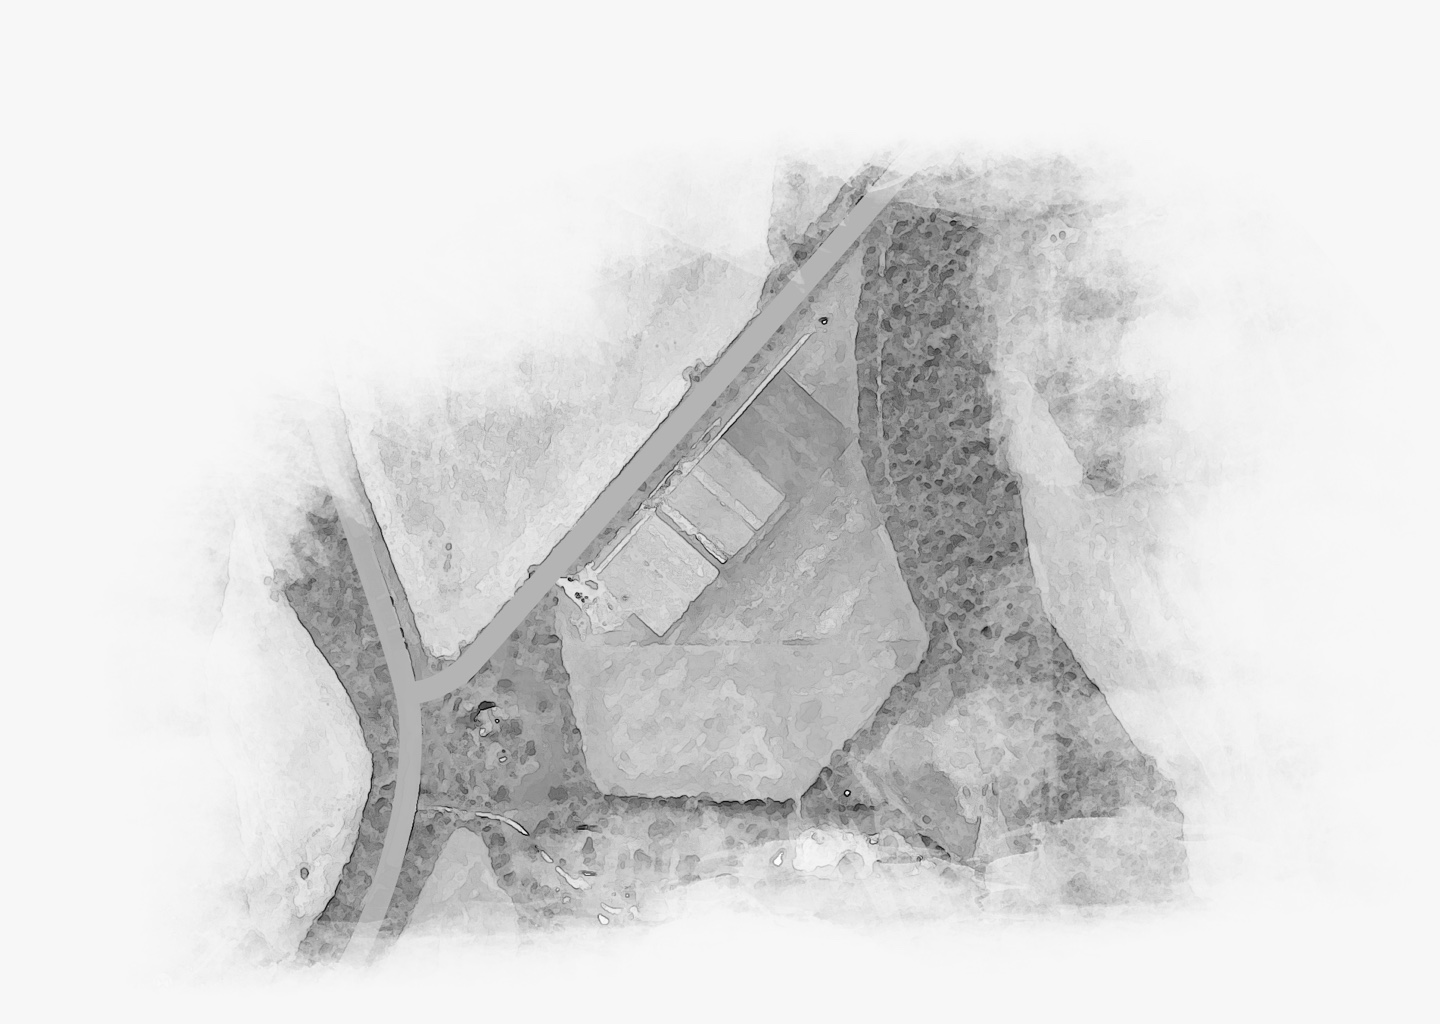
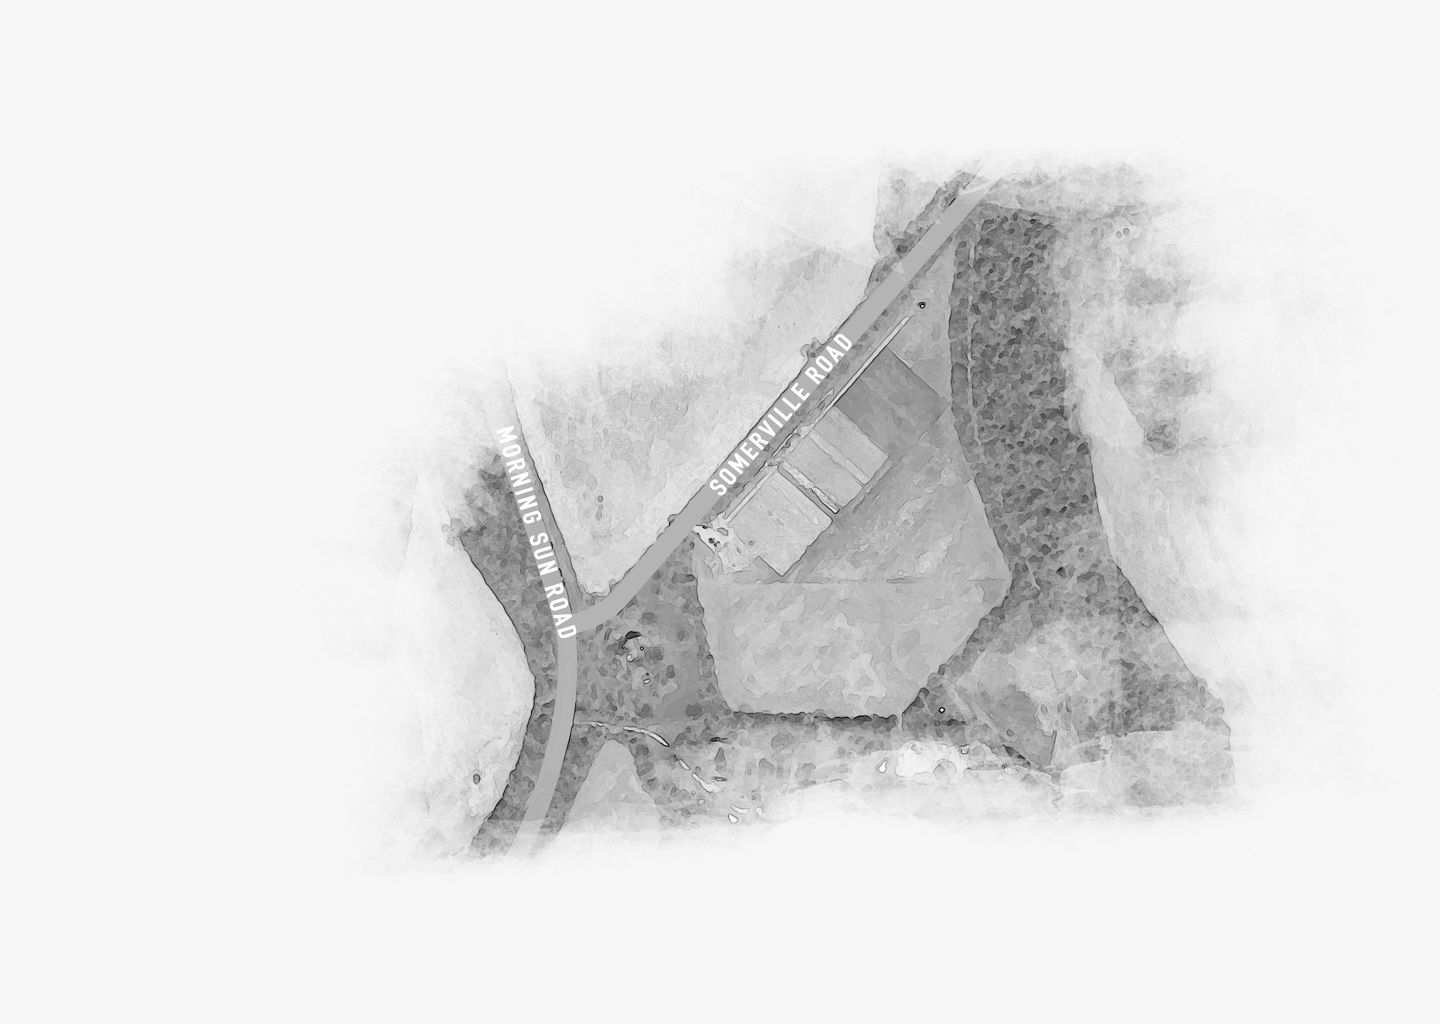
add contributors page and update farm map

Changed region(s): [[0.1562, 0.1562, 0.875, 0.9688], [0.4062, 0.3438, 0.4375, 0.375], [0.3438, 0.3438, 0.375, 0.375]]

diff --git a/src/Pages/Contributors.jsx b/src/Pages/Contributors.jsx
@@ -1,0 +1,139 @@
+import React from 'react';
+import injectSheet from 'react-jss';
+import EssayPage from '../Components/EssayPage';
+
+const ContributorsWithClasses = ({
+  classes
+}) => (
+    <EssayPage
+      articleTitle='Our Supporters'
+      className={classes.essayOverrides}
+    >
+        <p>This website is supported by a grant from Ohio Humanities.</p>
+        <p>The American Studies Program, the Institute for Food, the Department of Architecture and Interior Design, and the College of Creative Arts at Miami University provided additional funding.</p>
+        <p><i>Educating from the Ground Up</i> is part of a larger curriculum initiative in food systems and food studies at Miami University, which is supported by a capacity building grant [#2017-70001-25988] from the USDA National Institute of Food and Agriculture.</p>
+        <p className={classes.paragraphOverride}>Ohio Humanities is a state affiliate of the National Endowment for the Humanities. Any views, findings, conclusions or recommendations expressed in this publication do not necessarily represent those of the National Endowment for the Humanities.</p>
+        <div className={classes.sectionDivider}/>
+        <h3>Special Thank You</h3>
+        <p>We would also like to thank the Smith Library of Regional History at The Lane Library in Oxford, Ohio, and our community partners, Oxford Farmer’s Market Uptown and MOON Co-Op.</p>
+        <h3>Production Team</h3>
+        <p>Project Director: Ben Jacks</p>
+        <p>Conceived, produced, and edited by Ben Jacks.</p>
+        <p>Designed by Vanessa Cannon and Ben Kolde, with programming by Elisabeth Bruesewitz.</p>
+        <h4>Vanessa Cannon</h4>
+        <p>Vanessa Cannon is a professor in the Armstrong Center for  Interactive Media Studies at Miami University in Oxford, Ohio.  Using her 20 years of real-world experience, she helps students see design not as just a concept but as something that the world is held together by.  Previous to her teaching appointment, she has both been an Art Director and Lead Graphic Designer. Her skills range from web and marketing design, to identity, logo and brand guide production. She has collaborated on teams as well as individually both in house and remotely, to achieve large scale advertising campaigns, websites and business to business projects. Vanessa also operates a free-lance design firm which has built projects for clients such as Proctor and Gamble, Community First Solutions, Neyer industries, Miami University, Ohio University, Butler Tech, Clark-Theders Insurance Agency, CNBS Software, Hamilton Community Foundation, Butler County Department of Environmental Services, Bauscher Construction, City of Hamilton, West Chester Township, Hampton Publishing, Miller Valentine, Ohio Township Association, and the Fitton Center for Creative Arts.</p>
+        <h4>Ben Kolde</h4>
+        <h4>Elisabeth Bruesewitz</h4>
+        <p>Elisabeth Bruesewitz is a computer science honors student at the University of Cincinnati, with experience in front end design and development, marketing, and entrepreneurship. She is passionate about bridging the gap between developers and designers. She has been a developer for the Brandery, Kroger Technology, and has done freelance work for multiple startups over the past two years.</p>
+        <div className={classes.sectionDivider}/>
+        <h3>Contributors</h3>
+        <h4>Ben Jacks, MArch, MFA</h4>
+        <p>Ben Jacks is an Associate Professor in the Department of Architecture and Interior Design, Miami University, where he teaches architecture to non-majors and beginning design students, as well as teaching at the advanced undergraduate and graduate levels. He focuses on aesthetics and perception in architecture and landscape. His journal publications include: “Reimagining Walking: Four Practices,” <i>Journal of Architectural Education</i>, (2004); “Walking the City: Manhattan Projects,” <i>Places: A Forum of Environmental Design</i> (2006); “Walking and Reading in Landscape,” <i>Landscape Journal</i> (2007); “Atmospheres, Expressed,” <i>Journal of Interior Design</i>, (2018); and “Photographs and Spiritual Atmospheres,” <i>Journal of Interior Design</i>, (2019). His books include <i>The Architect’s Tour: Notes for the Design Traveler</i>, (Culicidae Architectural Press, 2014), and <i>A House and its Atmosphere</i>, (Culicidae Architectural Press, 2017). He holds degrees from the University of Southern Maine (MFA), the University of Pennsylvania (MArch), and the University of Chicago (BA).</p>
+        
+        <h4>Timothy G. Anderson, PhD</h4>
+        <p>Timothy G. Anderson, Department of Geography, Ohio University, is a historical geographer with research interests in the historical settlement geography of the United States, especially with regard to the historical production of regional cultural landscapes and identities; the historical settlement geography of Ohio during the early National period, with an emphasis on sub-regional cultural landscape formation; and the production of cultural landscapes associated with Germanic Diasporas, especially in North America and Europe. Dr. Anderson received his PhD from Texas A & M University in 1994.</p>
+        
+        <h4>Adam Ebert, PhD</h4>
+        <p>Adam Ebert is an Associate Professor of History at Mount Mercy University in Cedar Rapids, Iowa. Ebert is currently doing research pertaining to the history of science and agriculture in the British Isles during 1600-1900. The research is contributing to his book, <i>Hive Society: The Popularization of Science and Beekeeping in the British Isles, 1609 –1913</i>, which is based on his dissertation research. During his studies at Iowa State Ebert received the Roswell Garst Dissertation Fellowship award for the 2007-2008 academic year, which enabled him to travel throughout the United Kingdom and conduct research. Ebert's family has a beekeeping business in central Iowa.</p>
+        
+        <h4>Robert Gioielli, PhD</h4>
+        <p>Robert Gioielli is a historian whose work focuses on environmental activism, reform and politics, and the intersections between environmental change and major developments in modern American history. He is currently an Assistant Professor of history at the University of Cincinnati Blue Ash College. He has also taught at Towson University and was a fellow at the Rachel Carson Center for Environment and Society in Munich, Germany. His work has appeared in the Journal of Urban History and the Radical History Review, and he is co-editor of Ohio Valley History.</p>
+        
+        <h4>Stephen Gordon, MS</h4>
+        <p>Steve Gordon holds undergraduate and graduate degrees in history from Miami University in Oxford, Ohio.  Since 1976, Steve has worked for the Miami Purchase Association for Historic Preservation, the Kentucky Heritage Council, the State Historic Preservation Office of the Ohio Historical Society, where he oversaw the Ohio Historic Inventory and National Register of Historic Places programs, and most recently, the McGuffey Museum at Miami University, the Three Valley Conservation Trust and MetroParks of Butler County. A native of Ohio, Steve’s research interests include local and regional architecture, cultural landscapes, craft and building technology, especially vernacular buildings and barns and the study of regional material culture. His publications include <i>How to Complete the Ohio Historic Inventory</i> (1992), as well as articles on the U.S. Grant Birthplace, 19th century prefabricated housing, women architects, Cincinnati’s meat packing industry, maple sugar production in southwest Ohio, and Spring Grove Cemetery. Steve has written and co-authored over fifty nominations to the National Register of Historic Places.</p>
+        
+        <h4>Charles Griffin</h4>
+        <p>Charles Griffin serves as the Director of Operations and Production on the Institute for Food farm at Miami University.  He oversees the Institute for Food Community Supported Agriculture Program (CSA), manages the farm and teaches farm labs at Miami. He is a seasoned organic farmer. Over his 20-year career, he has built, managed, and inspected organic farms, consulted for sustainable farm projects and community initiatives, and educated students and staff on the practice and business of sustainable farming. He has completed graduate work in Agroecology at the University of California Davis and has served as an instructor in sustainable agriculture at Cincinnati State.</p>
+        
+        <h4>Jonathan Levy, PhD</h4>
+        <p>Jonathan Levy is the Director of the Institute for the Environment and Sustainability and an Associate Professor in the Department of Geology and Environmental Earth Science at Miami University. He specializes in groundwater hydrology with research interests that include groundwater/surface-water interaction and the transport and fate of groundwater contaminants including pesticides, pharmaceuticals and bacteria. Levy is dedicated to international education.  He served a two-year teaching assignment in Luxembourg (2002-2004) and was a Fulbright scholar in South Africa (2009-2010) teaching and conducting research at the University of the Western Cape in Cape Town. He has led Miami workshops through Europe (2002), Kenya (2007) and Zambia (2013, 2014 and 2016) and his students are co-authors on papers regarding his research projects in Nepal, Kenya and Malawi. His current work in Zambia involves an examination of water use in relation to access, attitudes and cost as well as the degree of contamination and proximity to potential pollution sources.</p>
+        
+        <h4>Kim Medley, PhD</h4>
+        <p>Dr. Kim Medley is a professor of Geography and an affiliate in Biology, the Institute for the Environment and Sustainability, and the Women, Gender, and Sexuality Studies Program. She studies why forests vary geographically in their structure, composition, and dynamics, and how an understanding of this variation may be best applied to resource conservation in temperate and tropical localities. Of particular interest are environmental versus human influences on local patterns of forest diversity and how woody plants are used and support local livelihoods. Her teaching contributes to physical-environmental studies in geography, human-environment relations, and strategic peacebuilding.</p>
+        
+        <h4>Beth Miller, PhD</h4>
+        <p>Dr. Beth Miller focuses broadly on enhancing community nutrition and health, particularly in low-income communities where large health disparities and high rates of obesity and food insecurity exist. As a member of the Institute for Food, she is working to connect the produce from Miami’s organic farm to the local food pantry, as well as increase the capacity of pantry clients to access food through gardening. She conducts research related to obesity prevention in Head Start and sugar-sweetened beverage reduction with ethnically diverse families. She utilizes her expertise in weight management on research related to diet & skeletal muscle inflammation.</p>
+        
+        <h4>Jason Rech, PhD</h4>
+        <p>Jason Rech is a geomorphologist and geologist and a Professor in the Department of Geology & Environmental Earth Science at Miami University. His research focuses on the interaction of climate and climate change on surficial processes and human societies. Much of his work is on arid lands, understanding the impact of climate change on water resources in the Middle East and in the Atacama Desert in northern Chile. Rech is also interested in how human societies have impacted their natural environment and deciphering ways to restore these systems to more natural conditions.</p>
+        
+        <h4>James Rubenstein, PhD</h4>
+        <p>James Rubenstein is Professor Emeritus of Geography at Miami University in Oxford, Ohio. He is author or co-author of The Cultural Landscape, the best-selling textbook for college and high school human geography. He is also author or co-author of six other books—<i>Contemporary Human Geography, Introduction to Contemporary Geography, The Changing U.S. Auto Industry, Making and Selling Cars, A Profile of the Automobile and Motor Vehicle Industry,</i> and <i>Who Really Made Your Car?</i> Since 2013, he has written a weekly column on local food for <i>The Oxford Press</i>. He is a member of the Board of MOON Co-op Grocery.</p>
+        
+        <h4>Marguerite S. Shaffer, PhD</h4>
+        <p>Marguerite S. Shaffer teaches history and environmental studies at Miami University. She is an environmental historian whose research focuses on the intersections of American and environmental studies, engaging issues of popular environmentalism, consumer culture, and public culture. She is co-editor of <i>Rendering Nature: Animals, Bodies, Places, Politics</i> (2015), editor of <i>Public Culture: Diversity, Democracy, and Community in the United States</i> (2008), and the author of <i>See America First: Tourism and National Identity, 1880-1940</i> (2001). Shaffer is the coordinator for the Institute for Food at Miami University.  She serves as series editor of the Nature and Culture Series for the University of Pennsylvania Press, and she is a member of the Greater Cincinnati Regional Food Policy Council. Her current research focuses on the public's perception and consumption of nature and "the natural".</p>
+        
+        <h4>Kathleen R. Smythe, PhD</h4>
+        <p>Kathleen R. Smythe teaches at Xavier University. She is an African historian with years of fieldwork experience in Tanzania, East Africa. She is the author of Fipa Families (2006), and a series of related articles about how Fipa integrated and made sense of European Catholic missionaries and their values during the colonial period. For a decade or more, she has taught and researched at the intersection of globalization, economic development, and histories of agriculture. A second book, Africa’s Past, Our Future, came out in 2015 with Indiana University Press and highlights ideas and institutions in African history and culture that broaden our imagination about what is possible socially, politically, and economically. She is at work on a third manuscript titled Mind-Body- History-Earth that proposes a new sustainability framework based on long-term human interdependencies on earth and its ecosystems. The framework is built on an understanding of the losses that have occurred to human well-being with more recent historical developments in agriculture and technology.</p>
+        
+        <h4>R. Alan Wight, PhD</h4>
+        <p>R. Alan Wight is an environmental sociologist and educator, and Service Learning Coordinator at The Christ College of Nursing and Health Sciences, Cincinnati. Alan’s research and advocacy agenda focuses on raising people’s food and ecological consciousness by dialoguing about the personal health, economic, and larger environmental implications of our food system. He works communities and schools to plant edible forest gardens. His recent publications and community asset maps include: Who is Training Farmers in the CORV Foodshed, Camp Washington Art and Mobile Produce, and Ecology, Energy, and Alternative Agriculture: A New Synthesis. His dissertation examines the types of learning and education that occur within the context of Community Supported Agriculture Programs.</p>
+    </ EssayPage>
+  );
+
+const styles = {
+  essayOverrides: {
+    lineHeight: 1.7,
+    '& sup': {
+      fontSize: '.7em',
+      color: '#F05A28',
+    },
+    '& h3': {
+        fontFamily: 'komu-b',
+        fontSize: '2.5em',
+    },
+    '& h4': {
+        fontFamily: 'komu-b',
+        fontSize: '1.5em',
+    },
+  },
+  paragraphOverride: {
+    fontSize: '.7em',
+  },
+  blockQuote: {
+    width: '75%',
+    margin: 'auto',
+  },
+  image: {
+    width: '100%',
+    height: 'auto',
+    margin: '15px auto'
+  },
+  figure: {
+    margin: '50px auto',
+    textAlign: 'center',
+    width: '75%',
+    '& figcaption': {
+      fontSize: '.7em',
+      letterSpacing: '0.2em',
+      fontFamily: 'komu-b'
+    }
+  },
+  figureOverride: {
+    width: 'calc(50% - 100px)',
+  },
+  figureContainer: {
+    width: '100%',
+    display: 'flex',
+    '& figure': {
+      margin: '50px'
+    }
+  },
+  sectionDivider: {
+    width: '30%',
+    borderBottom: '4px solid #F05A28',
+    margin: '50px auto'
+  },
+  pullQuote: {
+    color: '#F05A28',
+    width: '75%',
+    margin: '50px auto',
+    fontSize: '2em',
+    fontFamily: 'komu-b',
+    textAlign: 'justify',
+    lineHeight: '1.5em',
+
+  },
+}
+
+export default injectSheet(styles)(ContributorsWithClasses);

diff --git a/src/App.js b/src/App.js
@@ -36,6 +36,7 @@ import EducatingFromTheGroundUp from './Pages/Essays/EducatingFromTheGroundUp';
 import Harvest from './Pages/Essays/Harvest';
 import FoodSecurity from './Pages/Essays/FoodSecurity';
 import FloraAndFauna from './Pages/Essays/FloraAndFauna';
+import Contributors from './Pages/Contributors';
 
 const Routes = () => (
   <Router basename={'/farmsitepreview'}>
@@ -55,6 +56,8 @@ const Routes = () => (
                   <Route exact path="/educatingfromthegroundup" component={EducatingFromTheGroundUp} />
             
                   <Route exact path="/contact" component={ContactPage} />
+                  <Route exact path="/contributors" component={Contributors} />
+
                   
                   <Route exact path="/explore/farm" component={FarmMap} />
                   <Route exact path="/essays/studentreflections" component={StudentReflections} />

diff --git a/src/Components/EssayPage.jsx b/src/Components/EssayPage.jsx
@@ -2,7 +2,6 @@ import React, {Component} from 'react';
 import injectSheet from 'react-jss';
 import { Link } from 'react-router-dom'
 import SmartMenu from '../Components/SmartMenu';
-import DefaultBackgroundImage from '../images/EssayBackground5.jpg';
 import Button from './Button';
 
 class EssayPageWithClasses extends Component {
@@ -25,7 +24,7 @@ class EssayPageWithClasses extends Component {
     const {
       articleTitle,
       authorName,
-      articleBackgroundImage=DefaultBackgroundImage,
+      articleBackgroundImage,
       hasMapButton,
       references,
       footNotes,

diff --git a/src/Pages/FarmMap.jsx b/src/Pages/FarmMap.jsx
@@ -91,15 +91,15 @@ const styles = {
     }
   },
   harvestIcon: {
-    top: '56vh',
-    left: 'calc(50vw - 17vh)',
+    top: '53vh',
+    left: 'calc(50vw - 15vh)',
     '@media (max-width: 760px)': {
       top: '39.2vh',
       left: 'calc(50vw - 11.9vh)',
     },
   },
   breakingGroundIcon: {
-    top: '46vh',
+    top: '50vh',
     left: 'calc(50vw - 3vh)',
   },
   landscapeChoreographyIcon: {

diff --git a/src/Components/Menu.jsx b/src/Components/Menu.jsx
@@ -63,6 +63,7 @@ const MenuWithClasses = ({
           <div className={classes.rightMenuChildren}>
             <Link to={`/`}>HOME</Link>
             <Link to={`/contact`}>CONTACT</Link>
+            <Link to={`/contributors`}>CONTRIBUTORS</Link>
             {children}
           </div>
           <div>
